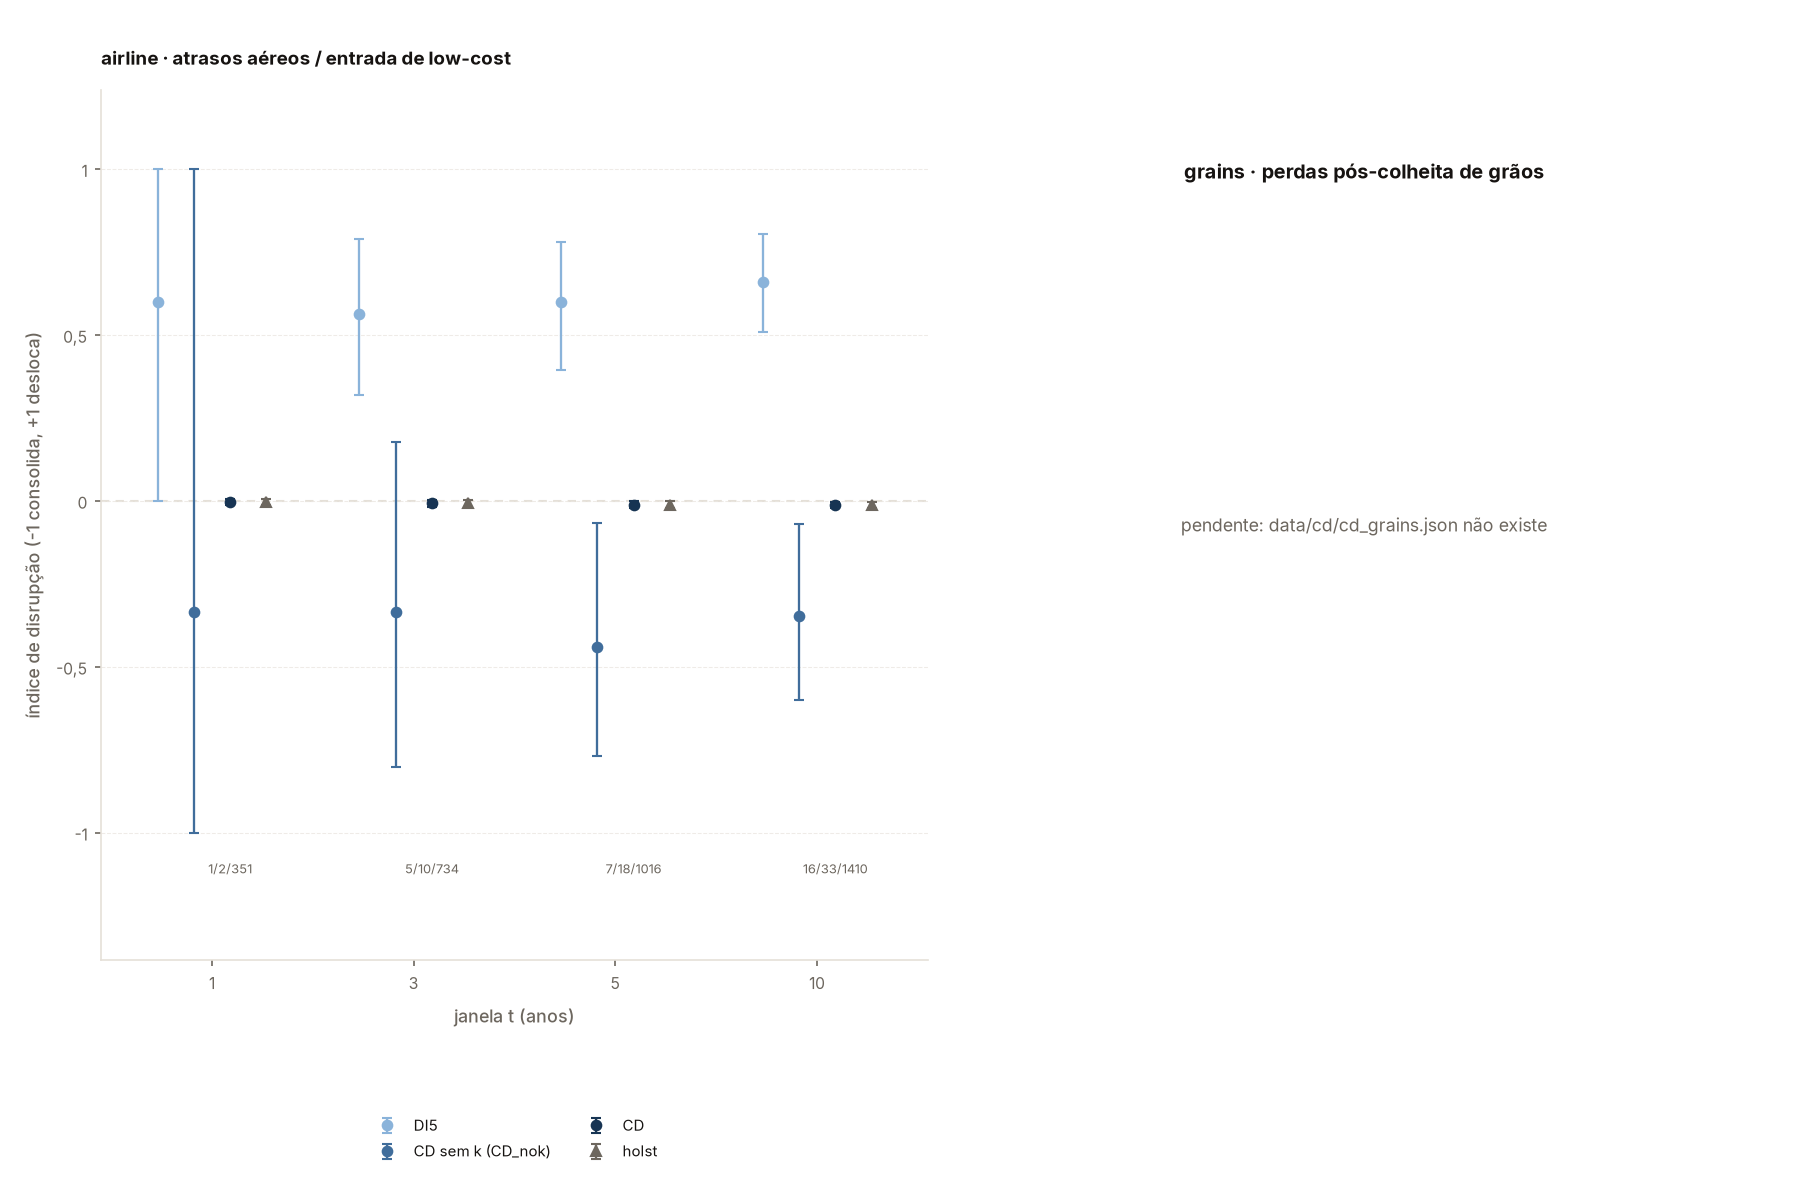
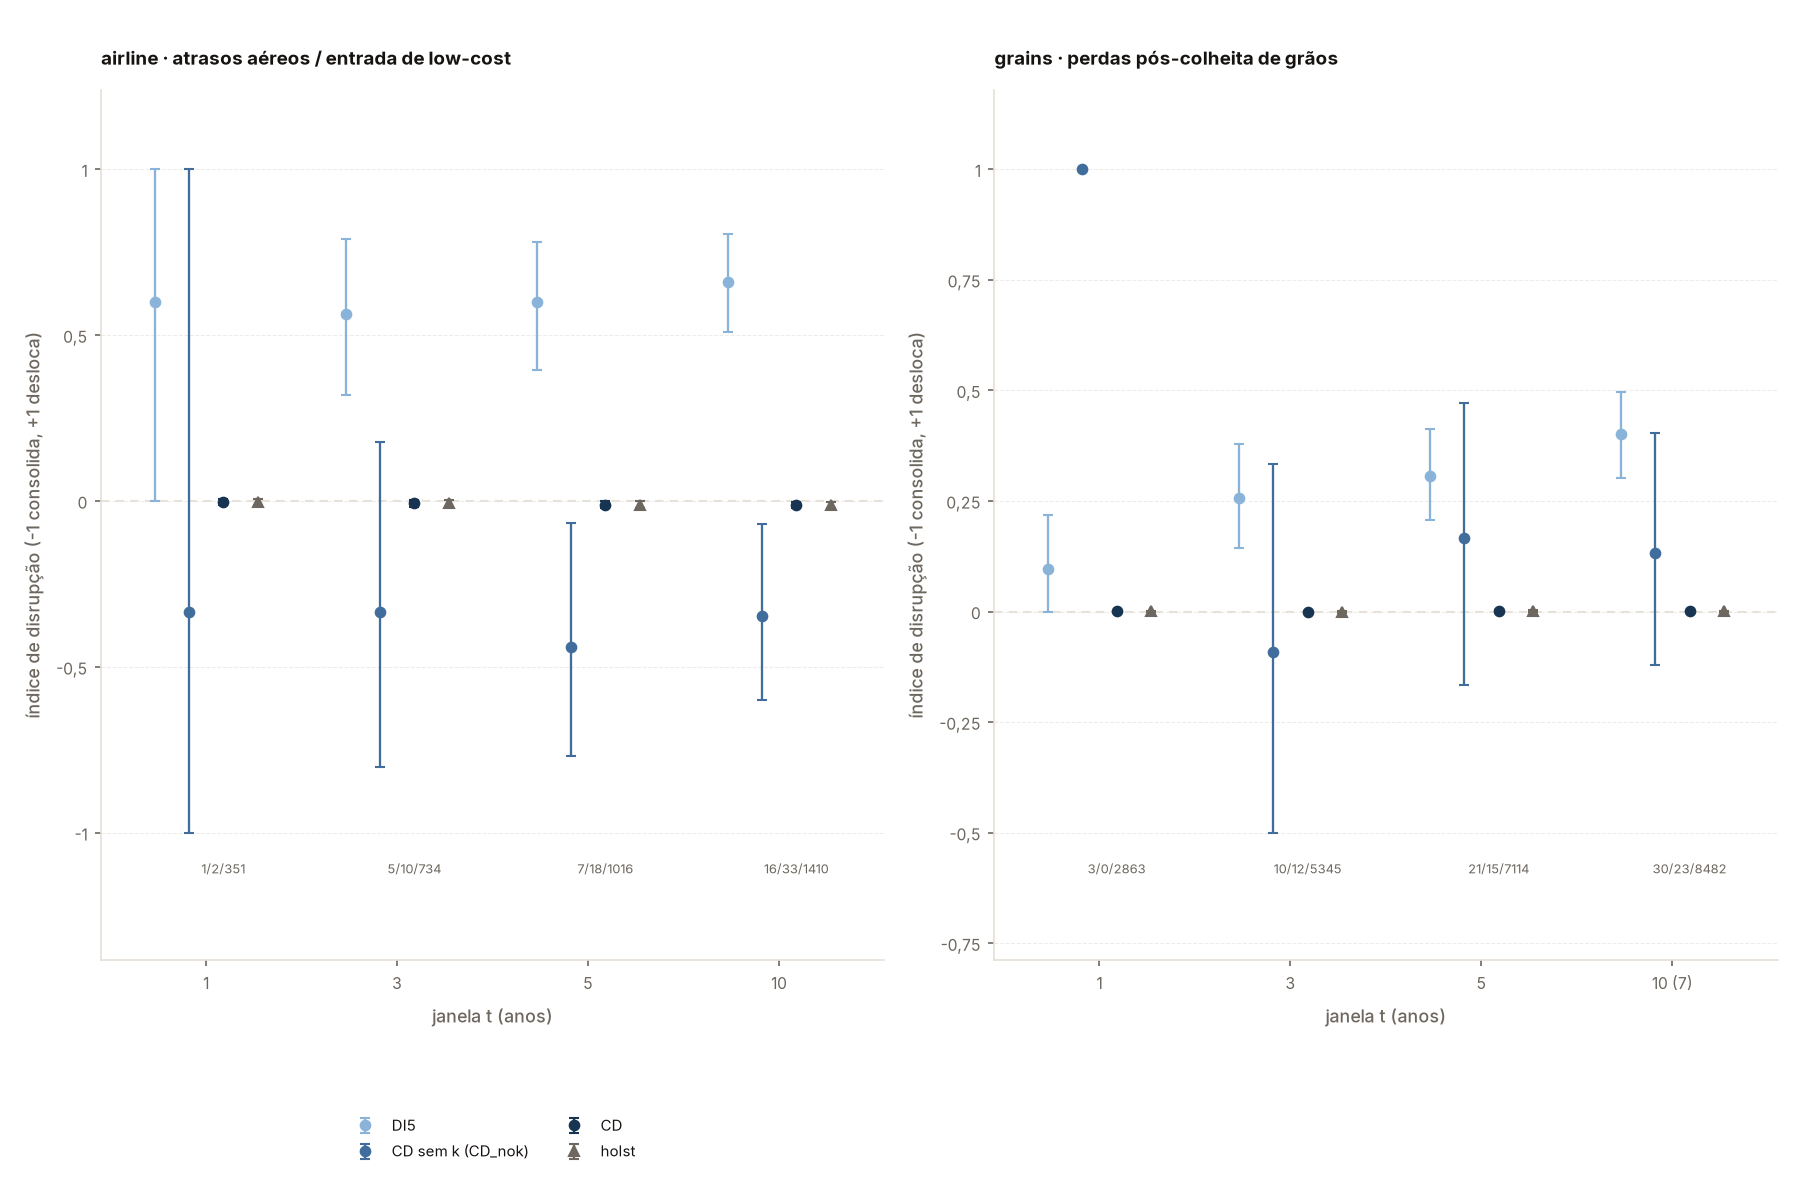
feat(report): figuras 13 e 14 com CD dos dois artigos e co-citação
fig13: forest-plot por janela (CD, CD_nok, DI5, Holst) para aviação e
grãos, com o trio n_i/n_j/n_k sob cada ponto e a janela t=10 de grãos
marcada como truncada em sete anos. fig14: share A-B antes/depois no
corte principal e nos dois placebos, e taxa de citação ao artigo entre
co-citantes AB, A-só, B-só e de uma vertente. Arquivos de data/irr só
ganham a quebra de linha final que o hook end-of-file-fixer aplicou.

diff --git a/tools/audit_81_figures.py b/tools/audit_81_figures.py
@@ -1048,7 +1048,7 @@ def _ponto_cd_serie(janela, serie):
     raise ValueError(f"série desconhecida: {serie!r}")
 
 
-def _painel_cd_real(ax, bloco_paper):
+def _painel_cd_real(ax, bloco_paper, *, mostrar_legenda=True):
     """Forest-plot de CD_t por janela `t`, as quatro séries de
     `CD_SERIES`, para UM artigo já confirmado não-pendente pelo chamador
     (`fig13_cd`). `bloco_paper` é `D["cd"][<artigo>]` inteiro (usa só
@@ -1061,6 +1061,13 @@ def _painel_cd_real(ax, bloco_paper):
     pequeno deslocamento horizontal fixo (`CD_SERIE_OFFSET`, não
     aleatório) para os quatro pontos + IC de uma mesma janela não se
     empilharem um em cima do outro.
+
+    Uma janela pode vir truncada (`janela["truncated"]`, ex.: `grains`
+    t_nominal=10 só tem `t`=7 anos de citação até hoje -- o artigo é de
+    2019, e 2019+10 é ano que ainda não chegou): o rótulo do ponto nesse
+    caso mostra os dois números, "10 (7)" -- nominal fora, real dentro
+    dos parênteses -- lido de `janela["t_nominal"]`/`janela["t"]`, nunca
+    inferido daqui.
     """
     cd_index = bloco_paper["cd_index"]
     janelas = cd_index["windows"]
@@ -1120,22 +1127,31 @@ def _painel_cd_real(ax, bloco_paper):
             color=SP.CINZA,
         )
 
+    def _rotulo_t(t):
+        janela = janelas[t]
+        base = str(janela["t_nominal"])
+        return f"{base} ({janela['t']})" if janela.get("truncated") else base
+
     ax.set_xticks(x)
-    ax.set_xticklabels(ts)
+    ax.set_xticklabels([_rotulo_t(t) for t in ts])
     ax.set_xlim(-0.55, len(ts) - 0.45)
     ax.set_xlabel("janela t (anos)")
     ax.set_ylabel("índice de disrupção (-1 consolida, +1 desloca)")
-    # fora do eixo: em t=1 o IC de DI5/CD_nok já encosta no teto (chega a
-    # 1,0) -- "upper left" dentro do eixo cobria a ponta do whisker. Este
-    # painel é meio PAINEL de largura (lado a lado com o de grains), por
-    # isso 2 colunas (não 4, que ficaria apertado) em duas linhas.
-    ax.legend(
-        loc="upper center",
-        bbox_to_anchor=(0.5, -0.16),
-        ncol=2,
-        fontsize=7.2,
-        frameon=False,
-    )
+    if mostrar_legenda:
+        # fora do eixo: em t=1 o IC de DI5/CD_nok já encosta no teto
+        # (chega a 1,0) -- "upper left" dentro do eixo cobria a ponta do
+        # whisker. Este painel é meio PAINEL de largura (lado a lado com
+        # o outro artigo), por isso 2 colunas (não 4, que ficaria
+        # apertado) em duas linhas. Só um painel mostra (o primeiro) --
+        # as quatro séries e cores são as MESMAS nos dois artigos, uma
+        # legenda repetida embaixo dos dois painéis não diz nada a mais.
+        ax.legend(
+            loc="upper center",
+            bbox_to_anchor=(0.5, -0.16),
+            ncol=2,
+            fontsize=7.2,
+            frameon=False,
+        )
 
 
 @_saida("fig13_cd.png")
@@ -1148,23 +1164,27 @@ def fig13_cd(D):
     pendente`: se `True`, desenha só o aviso "pendente: <motivo>" (ver
     `_desenhar_pendente_no_eixo`); senão desenha o forest-plot de
     verdade (`_painel_cd_real`). Um artigo pendente nunca impede o outro
-    de desenhar -- hoje (`airline` chegou, `grains` ainda não) é
-    exatamente esse caso: o painel de `airline` é o gráfico de verdade, o
-    de `grains` continua o texto de aviso. Quando `grains` chegar (mesma
-    forma, por `audit_65_cd_index.py --paper grains`), regenerar deve
-    bastar -- nenhuma outra mudança de código.
+    de desenhar -- os dois já chegaram (`airline` e `grains`) e os dois
+    painéis desenham o gráfico de verdade hoje; a checagem por-artigo
+    fica porque `cocitacao`/outros blocos futuros podem voltar a chegar
+    um artigo de cada vez, e nenhuma mudança de código deveria ser
+    necessária quando isso acontecer de novo -- só regenerar.
 
     Forma lida em `cd.<artigo>.cd_index` (nenhuma folha aqui vem
     embrulhada em `{"valor","txt"}` -- são números/bool/None crus, ao
     contrário de blocos como `eixos`/`taxa_base`): `backend`, `crosstab`,
-    `fisher_p`, `loo` (os três últimos `None` na corrida de `airline`) e
-    `windows`, um dict por janela `t` ("1"/"3"/"5"/"10", strings) com
-    `CD`, `CD_nok`, `DI2 {n_i,n_j,n_k,value}`, `DI5 {n_i,n_j,n_k,value}`,
-    `holst {CD,n_i,n_j,n_k}`, `checks {...}` (não desenhado -- são
-    validações internas do índice, não dado pra figura), `ci_95 {CD,
-    CD_nok, DI2, DI5, holst_CD}` (cada um `[lo, hi]`) e, soltos na
-    própria janela, `n_i`, `n_j`, `n_k`, `n_window`, `t`, `t_nominal`,
-    `truncated`.
+    `fisher_p`, `loo` (os três `None` nas duas corridas) e `windows`, um
+    dict por janela `t` ("1"/"3"/"5"/"10", strings -- a CHAVE é o t
+    NOMINAL) com `CD`, `CD_nok`, `DI2 {n_i,n_j,n_k,value}`, `DI5
+    {n_i,n_j,n_k,value}`, `holst {CD,n_i,n_j,n_k}`, `checks {...}` (não
+    desenhado -- são validações internas do índice, não dado pra
+    figura), `ci_95 {CD, CD_nok, DI2, DI5, holst_CD}` (cada um `[lo,
+    hi]`) e, soltos na própria janela, `n_i`, `n_j`, `n_k`, `n_window`,
+    `t`, `t_nominal`, `truncated`. Em `grains`, a janela de chave "10"
+    tem `truncated=true`, `t_nominal=10` mas `t=7` -- o artigo é de 2019
+    e uma janela de 10 anos exigiria dado até 2029, que não existe; o
+    rótulo do ponto mostra os dois números ("10 (7)", ver
+    `_painel_cd_real`).
 
     Quatro séries desenhadas (`DI2` fica de fora -- não pedida): `CD`
     (azul escuro), `CD_nok` ("CD sem k", azul médio -- CD_nok ignora o
@@ -1178,7 +1198,7 @@ def fig13_cd(D):
     daquele eixo, não o inverso).
     """
     fig, eixos = plt.subplots(1, 2, figsize=SP.PAINEL)
-    for ax, paper in zip(eixos, PAPERS):
+    for idx, (ax, paper) in enumerate(zip(eixos, PAPERS)):
         bloco_paper = D["cd"][paper]
         if bloco_paper["cd_index"].get("pendente"):
             _desenhar_pendente_no_eixo(
@@ -1189,33 +1209,160 @@ def fig13_cd(D):
                 ),
             )
         else:
-            _painel_cd_real(ax, bloco_paper)
+            _painel_cd_real(ax, bloco_paper, mostrar_legenda=(idx == 0))
             _rotulo_painel(ax, PAPER_LABEL[paper])
     return fig
 
 
+COCIT_BROKER_ORDEM = ("AB", "A_only", "B_only", "single_strand")
+COCIT_BROKER_LABEL = {
+    "AB": "AB (cita os dois lados)",
+    "A_only": "só A",
+    "B_only": "só B",
+    "single_strand": "single-strand",
+}
+
+
 @_saida("fig14_cocitacao.png")
 def fig14_cocitacao(D):
-    """Share de co-citação A-B antes/depois do artigo, com placebos --
-    forma final AINDA NÃO gravada em `dados.json`. Bloco `cocitacao`
-    (`audit_70 §cocitacao`), hoje `pendente` (único motivo, não por
-    artigo): falta `data/cocit/cocit_<artigo>.json`, só o seed de
-    `airline` existe (`data/cocit/seeds_airline.json`, insumo, não
-    resultado).
+    """Co-citação A-B (o artigo focal e o par de disputa mais cocitado
+    com ele) -- só `airline`: o bloco descreve um par específico de
+    artigos cocitados, sem equivalente natural para `grains` nos dados
+    de hoje. Bloco `cocitacao` (`audit_70 §cocitacao`), duas partes lado
+    a lado dentro de um SLOT só -- não há "por artigo" aqui que
+    justifique PAINEL/dois painéis.
 
-    Mesma troca futura de `fig13_cd` (ler o formato quando 65/66
-    rodarem, nunca supor); mesma falha alta se o bloco parar de estar
-    pendente sem que esta função tenha sido reescrita.
+    Forma lida (nenhuma folha embrulhada em `{"valor","txt"}` -- mesma
+    convenção numérica crua de `cd`, ao contrário de blocos como
+    `eixos`/`taxa_base`): `periods.<cenário>` (`main`, zero ou mais
+    `placebo_*`, e um `sensitivity` que NÃO é um placebo -- só desloca o
+    ano de corte pós em +1, é checagem de robustez do próprio corte
+    principal, não um ano falso; fica de fora do painel de placebos por
+    isso, filtrado pelo prefixo `placebo_`) com `pre`/`post`, cada um
+    `{N_A,N_B,N_AB,N_union,jaccard,salton_cosine,share_AB,checks}`, e
+    `pre_range`/`post_range` (`[ano_ini, ano_fim]`); nenhum IC em
+    `share_AB` -- não desenha nenhum, não recomputa um.
+    `tests.fisher_period_x_cocites_both.p_two_sided` e
+    `tests.permutation_delta_share_AB_main.p_value` (os dois só do
+    cenário `main` -- a tabela de contingência do Fisher bate com os
+    `N_AB` de pré/pós do `main`). `brokerage.{AB,A_only,B_only,
+    single_strand}` com `k_cites_focal`/`n`/`rate`, mais
+    `odds_ratio_AB_vs_single`.
+
+    Parte 1 (esquerda): `share_AB` antes/depois, pré/pós dodgeados
+    dentro do próprio cenário -- `main` em azul, placebos em cinza (o
+    MESMO par azul/cinza da parte 2: azul = o sinal real sendo testado,
+    cinza = o comparador/controle -- reaproveitado dentro da mesma
+    figura, não só entre figuras). Fisher p e permutação p (`main`)
+    anotados como texto.
+
+    Parte 2 (direita): taxa de citação ao artigo focal por classe de
+    co-citante, barras horizontais do zero -- `AB` em azul, o resto em
+    cinza. `k_cites_focal/n` anotado tipo "14/48"; razão de chances
+    AB-vs-single-strand como texto.
     """
-    bloco = D["cocitacao"]
-    if not bloco.get("pendente"):
-        raise RuntimeError(
-            "cocitacao não está mais pendente -- fig14_cocitacao precisa ser "
-            "reescrita pra forma final (ver docstring desta função) antes de "
-            "gerar esta figura de novo."
+    cocit = D["cocitacao"]
+    fig, (ax_periodos, ax_broker) = plt.subplots(1, 2, figsize=SP.SLOT)
+
+    # ---- parte 1: share_AB antes/depois, main + placebos ----
+    periodos = cocit["periods"]
+    cenarios = ["main"] + sorted(k for k in periodos if k.startswith("placebo_"))
+    x, fracoes, cores, rotulos_fase = [], [], [], []
+    centros_grupo, rotulos_grupo = [], []
+    xi = 0.0
+    for cenario in cenarios:
+        bloco_cen = periodos[cenario]
+        cor = SP.AZUL if cenario == "main" else SP.CINZA
+        ano_corte = bloco_cen["post_range"][0]
+        nome_grupo = "main" if cenario == "main" else "placebo"
+        par_x = []
+        for fase, rotulo_fase in (("pre", "pré"), ("post", "pós")):
+            x.append(xi)
+            fracoes.append(bloco_cen[fase]["share_AB"])
+            cores.append(cor)
+            rotulos_fase.append(rotulo_fase)
+            par_x.append(xi)
+            xi += 1.0
+        centros_grupo.append(sum(par_x) / 2)
+        rotulos_grupo.append(f"{nome_grupo} ({ano_corte})")
+        xi += 0.6  # respiro entre cenários
+    x = np.array(x)
+    fracoes = np.array(fracoes)
+    ax_periodos.bar(x, fracoes * 100, color=cores, width=0.8)
+    for xi_, f in zip(x, fracoes):
+        ax_periodos.text(
+            xi_, f * 100, SP.pct(f), ha="center", va="bottom", fontsize=6.8
         )
-    motivo = bloco.get("motivo", "sem motivo registrado em dados.json")
-    return _figura_pendente([("airline + grains", motivo)], SP.SLOT)
+    ax_periodos.set_xticks(x)
+    ax_periodos.set_xticklabels(rotulos_fase, fontsize=7.2)
+    # rótulo do cenário (o corte que separa pré/pós), um só por par --
+    # repetir o nome do cenário em CADA barra (duas por par) foi a causa
+    # de uma sobreposição real na primeira versão: "placebo 2011" escrito
+    # duas vezes lado a lado, num slot de bar estreito, colidia com o
+    # "placebo 2011" vizinho. Uma linha curta por par, embaixo do rótulo
+    # pré/pós, não. `get_xaxis_transform()`: x em dado, y em fração do
+    # eixo -- não depende de onde o y-range dos dados termina.
+    for cx, rot in zip(centros_grupo, rotulos_grupo):
+        ax_periodos.text(
+            cx,
+            -0.15,
+            rot,
+            ha="center",
+            va="top",
+            fontsize=6.8,
+            color=SP.CINZA,
+            transform=ax_periodos.get_xaxis_transform(),
+        )
+    ax_periodos.set_ylim(0, fracoes.max() * 100 * 1.32)
+    ax_periodos.set_ylabel("share de co-citação A-B (%)")
+    p_fisher = cocit["tests"]["fisher_period_x_cocites_both"]["p_two_sided"]
+    p_perm = cocit["tests"]["permutation_delta_share_AB_main"]["p_value"]
+    ax_periodos.text(
+        0.02,
+        0.97,
+        f"main: Fisher p={SP.pt(p_fisher, 3)} · permutação p={SP.pt(p_perm, 3)}",
+        transform=ax_periodos.transAxes,
+        ha="left",
+        va="top",
+        fontsize=6.4,
+        color=SP.CINZA,
+    )
+
+    # ---- parte 2: brokerage ----
+    broker = cocit["brokerage"]
+    y = np.arange(len(COCIT_BROKER_ORDEM))
+    taxas = np.array([broker[c]["rate"] for c in COCIT_BROKER_ORDEM])
+    cores_b = [SP.AZUL if c == "AB" else SP.CINZA for c in COCIT_BROKER_ORDEM]
+    ax_broker.barh(y, taxas * 100, color=cores_b, height=0.55)
+    for yi, c in zip(y, COCIT_BROKER_ORDEM):
+        ax_broker.text(
+            broker[c]["rate"] * 100 + taxas.max() * 100 * 0.02,
+            yi,
+            f"{SP.pt_int(broker[c]['k_cites_focal'])}/{SP.pt_int(broker[c]['n'])}",
+            va="center",
+            fontsize=7,
+            color=SP.CINZA,
+        )
+    ax_broker.set_yticks(y)
+    ax_broker.set_yticklabels(
+        [COCIT_BROKER_LABEL[c] for c in COCIT_BROKER_ORDEM], fontsize=7.6
+    )
+    ax_broker.invert_yaxis()
+    ax_broker.set_xlim(0, taxas.max() * 100 * 1.32)
+    ax_broker.set_xlabel("cita o artigo focal (%)")
+    razao = broker["odds_ratio_AB_vs_single"]
+    ax_broker.text(
+        0.98,
+        0.03,
+        f"razão de chances AB vs single-strand: {SP.pt(razao, 1)}×",
+        transform=ax_broker.transAxes,
+        ha="right",
+        va="bottom",
+        fontsize=6.6,
+        color=SP.CINZA,
+    )
+    SP.sem_grade(ax_broker)
+    return fig
 
 
 # ==========================================================================
